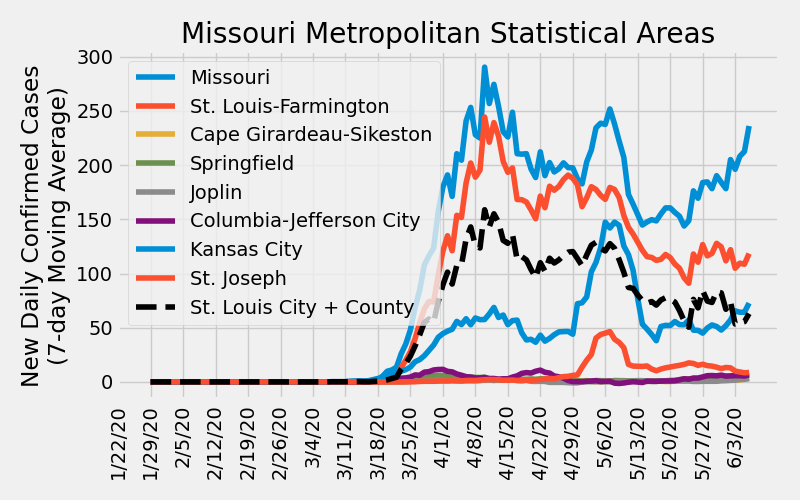
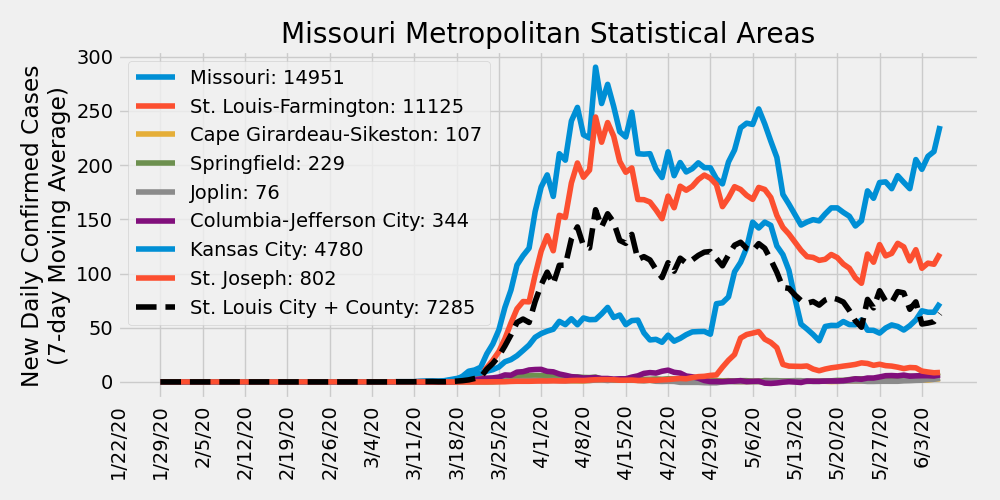
updating plots with cumulative totals

diff --git a/ajvogt-analysis/mo_analysis_script.py b/ajvogt-analysis/mo_analysis_script.py
@@ -26,12 +26,13 @@ def plot_daily_info(path, msa, data='deaths'):
     cols = df.columns[df.columns.str.contains('/20')]
     xlabels = df.loc[:, cols].columns
     xticks = np.arange(0, xlabels.shape[0], 1)
-    plt.figure(figsize=(8, 5))
+    plt.figure(figsize=(10, 5))
 
     # Missouri
     cond = "(Province_State == 'Missouri')"
     y = df.query(cond).loc[:, cols].sum(axis=0).diff().rolling(window=7).mean()
-    plt.plot(xticks, y, label='Missouri')
+    latest_total = df.query(cond).loc[:, cols].sum(axis=0)
+    plt.plot(xticks, y, label='Missouri: %i'%latest_total[-1])
 
     # MSAs
     for area in msa.MSA.unique():
@@ -42,13 +43,15 @@ def plot_daily_info(path, msa, data='deaths'):
         cond = cond[:-1]
 
         y = df.query(cond).loc[:, cols].sum(axis=0).diff().rolling(window=7).mean()
-        plt.plot(xticks, y, label=area)
+        latest_total = df.query(cond).loc[:, cols].sum(axis=0)
+        plt.plot(xticks, y, label='%s: %i'%(area, latest_total[-1]))
 
     # St. Louis City + County
     cond = "((Province_State == 'Missouri')&(Admin2 == 'St. Louis'))|"
     cond += "((Province_State == 'Missouri')&(Admin2 == 'St. Louis City'))"
     y = df.query(cond).loc[:, cols].sum(axis=0).diff().rolling(window=7).mean()
-    plt.plot(xticks, y, label='St. Louis City + County',
+    latest_total = df.query(cond).loc[:, cols].sum(axis=0)
+    plt.plot(xticks, y, label='St. Louis City + County: %i'%latest_total[-1],
             linestyle='--', color='k')
 
     steps = np.arange(0, xticks.shape[0], 7)

diff --git a/ajvogt-analysis/missouri_analysis.md b/ajvogt-analysis/missouri_analysis.md
@@ -5,7 +5,9 @@ Source: [COVID-19 Data Repository by the Center for Systems Science and Engineer
 
 ## Missouri New Daily Deaths by Metropolitan Statistcal Areas
 ![](images/mo_daily_deaths.png)
+Cumulative Deaths in legend
 
 ## Missouri New Daily Deaths by Metropolitan Statistcal Areas
 ![](images/mo_daily_cases.png)
+Cumulative Confirmed Cases in legend
 
